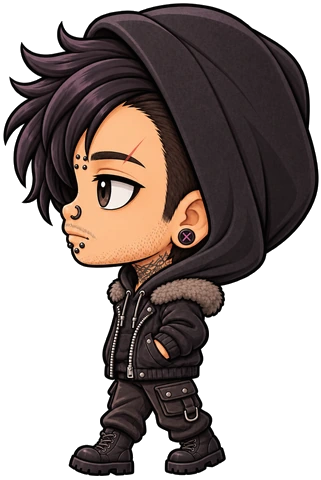
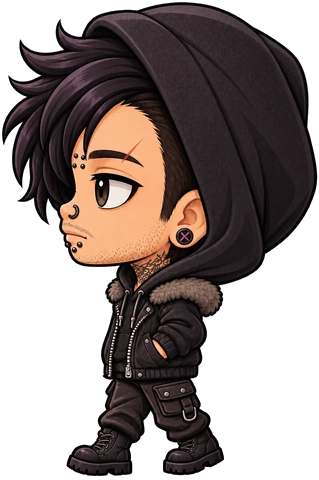
Figur: Helligkeit angeglichen, Oberkoerper vereinheitlicht

diff --git a/valentin/index.html b/valentin/index.html
@@ -2322,8 +2322,8 @@ const FIGUREN = {
       "bilder/figuren/figur1-gehen1.webp",
       "bilder/figuren/figur1-gehen2.webp"
     ],
-    anker:  0.459,
-    seiten: 321 / 480
+    anker:  0.456,
+    seiten: 319 / 480
   }
 };
 
